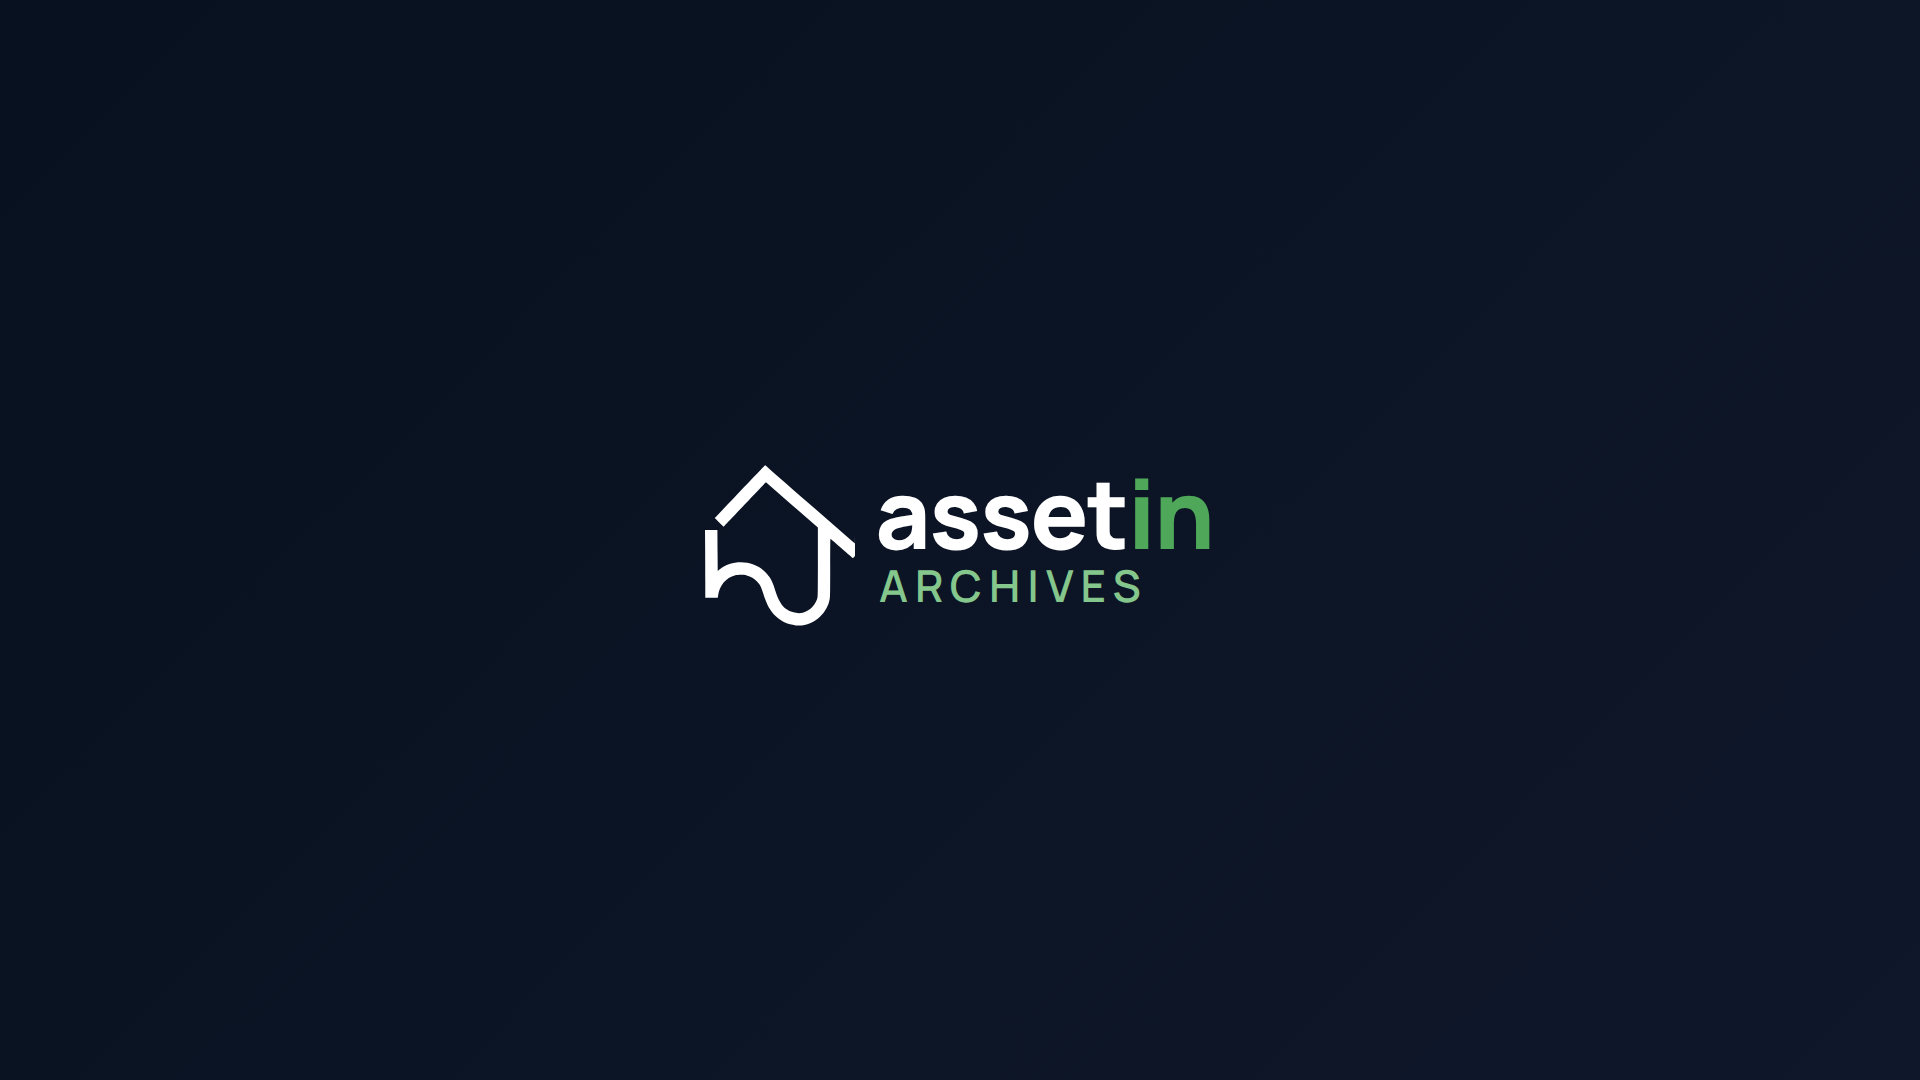
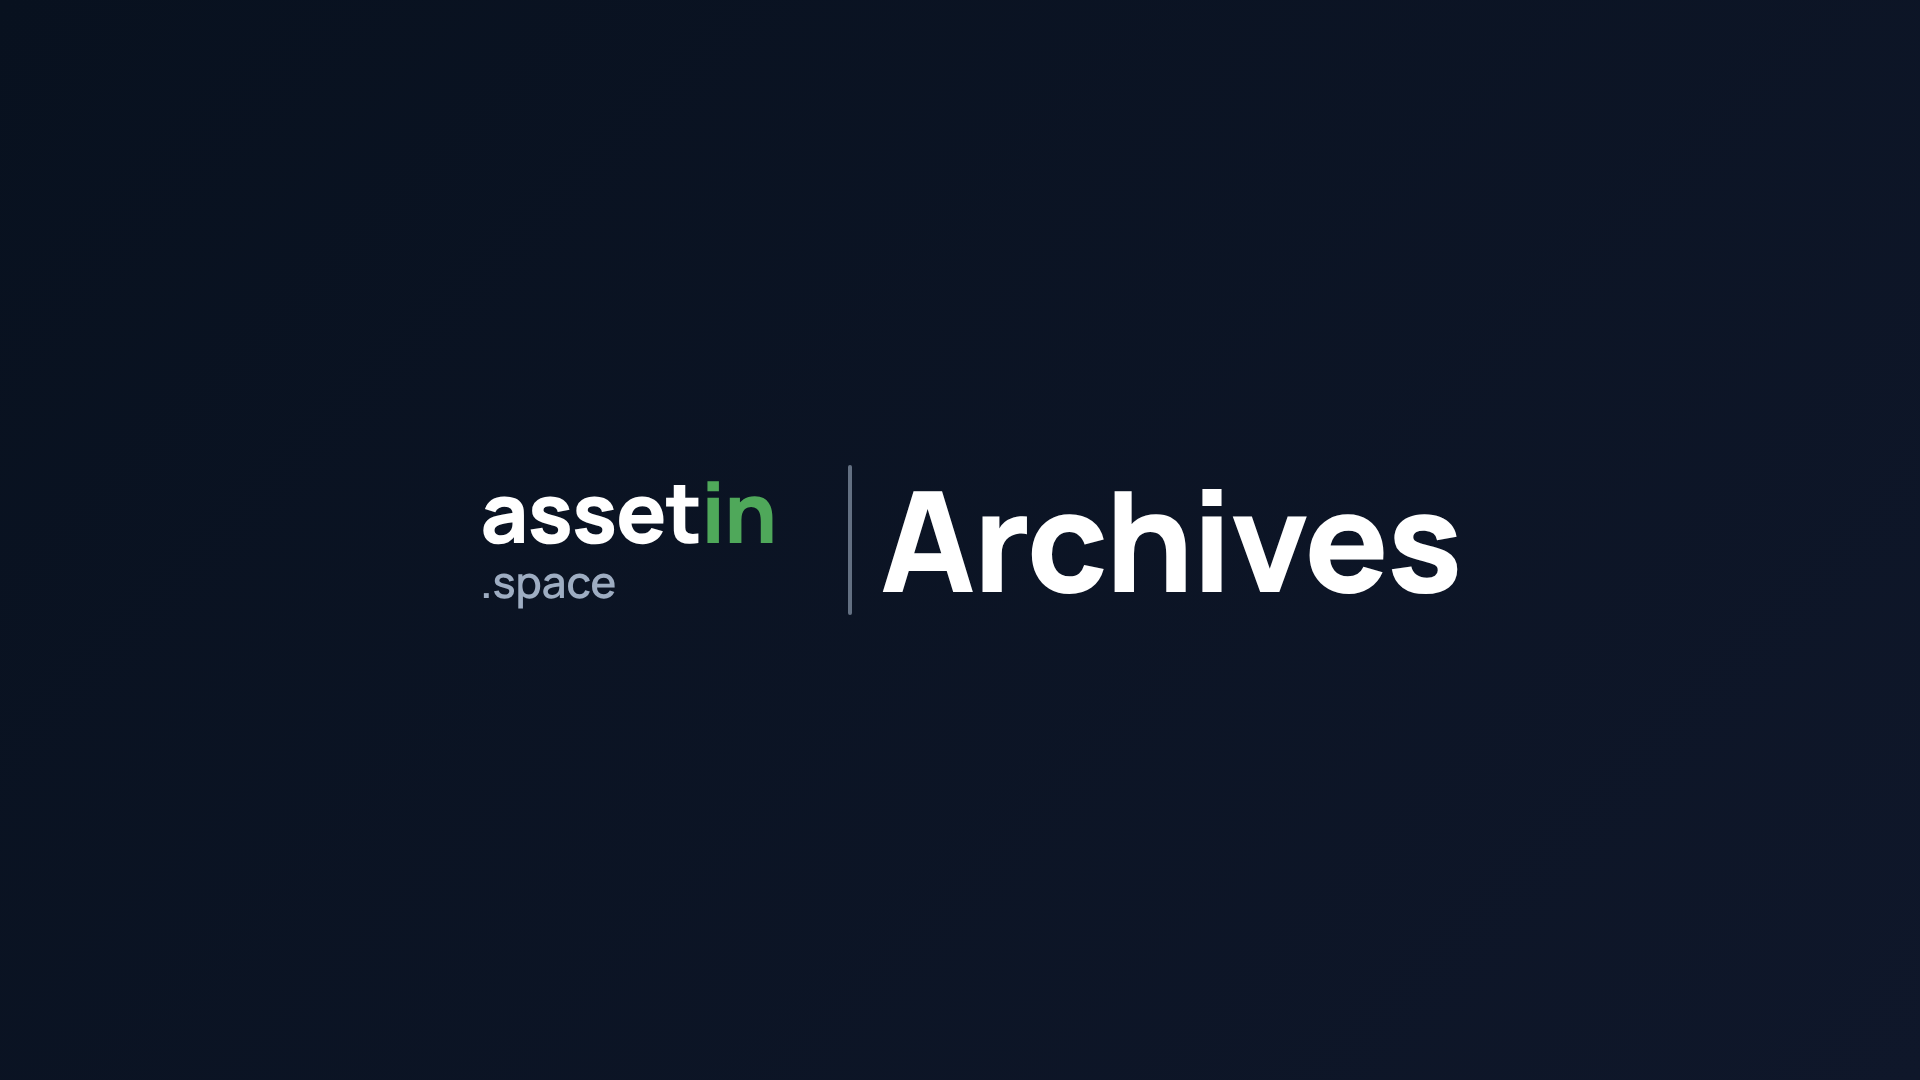
C1 Intro: lockup podľa assetin-design-kitu (assetin / .space | Archives), nový komponent Brand
Claude-Session: https://claude.ai/code/session_0174g5XfE49UzAEjnWwaQFuK

Changed region(s): [[0.25, 0.4278, 0.7812, 0.5806]]

diff --git a/video/src/scenes/C1_Intro.tsx b/video/src/scenes/C1_Intro.tsx
@@ -1,52 +1,58 @@
 import React from 'react';
 import { useCurrentFrame } from 'remotion';
-import { LogoMark, Scene } from '../components/Scene';
+import { Scene } from '../components/Scene';
+import { BrandMod, BrandSep, BrandStack, LOCKUP, LOCKUP_W } from '../components/Brand';
 import { settle, tween } from '../lib/anim';
-import { BRAND, FONT } from '../theme';
 
 /**
- * C1 - Intro. Domcek (LogoMark) v strede; spoza neho vyjde "assetin",
- * pod nim "Archives"; hold; texty sa zasunu spat; kamera prejde cez domcek
- * (najazd do vnutra), obraz sa vyplni navy = prvy frame C2. 5 s.
+ * C1 - Intro. Lockup podla assetin-design-kitu: stohovany logotyp
+ * (assetin / .space), zvisly oddelovac, modul "Archives". Lockup je pocas
+ * drzania centrovany; na konci sa Archives zasunie za oddelovac, oddelovac
+ * sa stiahne, logotyp sa priblizi a vybledne do navy = prvy frame C2. 5 s.
  *
- * ms: 300 domcek · 900-1500 wordmark vychadza · 1300-1900 Archives ·
- * 3000-3500 zasunutie · 3600-4700 najazd cez domcek.
+ * ms: 300 assetin · 700 .space · 1100-1500 oddelovac · 1300-1900 Archives
+ * vychadza · 3200-3700 Archives sa zasuva (skupina ide do stredu) ·
+ * 3700-4000 oddelovac sa stiahne · 4000-4700 priblizenie + navy.
  */
 export const C1_Intro: React.FC = () => {
   const frame = useCurrentFrame();
   const tw = (s: number, d: number) => tween(frame, s, d);
-  const logo = settle(frame, 300);
-  const out = tw(900, 600) * (1 - tw(3000, 500));
-  const sub = tw(1300, 600) * (1 - tw(2900, 450));
-  const zoom = tw(3600, 1100);
-  const scale = 1 + zoom * 40;
-  const MARK = 150;
-  // lockup (domcek + text) je pocas drzania centrovany; pri zasunuti textu sa skupina
-  // posunie tak, ze domcek skonci presne v strede - kamera potom letí do neho.
-  const TEXT_W = 500; // sirka clip panelu
-  const LOCK_W = 370; // skutocna sirka textu (assetin 96 px + padding)
-  const back = tw(3000, 500);
-  const shift = (-(LOCK_W - 10) / 2) * (1 - back);
+  const stackIn = settle(frame, 300);
+  const domain = settle(frame, 700);
+  const sep = tw(1100, 400) * (1 - tw(3700, 300));
+  const mod = tw(1300, 600) * (1 - tw(3200, 500));
+  const back = tw(3200, 500);
+  const zoom = tw(4000, 700);
+  const navy = tw(4400, 300);
+
+  // pocas drzania je centrovany cely lockup; pri zasunuti Archives sa skupina
+  // (stack + sep) posunie tak, aby bol logotyp v strede
+  const stackLeftHold = 960 - LOCKUP_W / 2;
+  const stackLeftEnd = 960 - LOCKUP.stackW / 2;
+  const stackLeft = stackLeftHold + (stackLeftEnd - stackLeftHold) * back;
+  const sepLeft = stackLeft + LOCKUP.stackW + LOCKUP.gap;
+  const modLeft = sepLeft + LOCKUP.sepW + LOCKUP.gap;
+  const top = 540 - LOCKUP.sepH / 2;
+  const scale = 1 + zoom * 0.35;
+
   return (
     <Scene mode="dark">
-      <div style={{ position: 'absolute', left: 960 - MARK / 2 + shift, top: 540 - MARK / 2, width: MARK, height: MARK, transform: `scale(${scale})`, transformOrigin: '45% 62%' }}>
-        {/* text vychadza spoza domceka doprava a zasuva sa spat "do domceka" */}
-        <div style={{ position: 'absolute', left: MARK - 10, top: -10, width: TEXT_W, height: 170, overflow: 'hidden' }}>
-          <div style={{ position: 'absolute', left: 0, top: 10, transform: `translateX(${(out - 1) * TEXT_W}px)`, opacity: Math.min(1, out * 2), fontFamily: FONT.display, fontWeight: 800, fontSize: 96, lineHeight: 1, color: '#fff', letterSpacing: '-0.02em', paddingLeft: 30, whiteSpace: 'nowrap' }}>
-            asset<span style={{ color: BRAND[400] }}>in</span>
-          </div>
-          <div style={{ position: 'absolute', left: 0, top: 108, transform: `translateX(${(sub - 1) * TEXT_W}px)`, opacity: Math.min(1, sub * 2), fontFamily: FONT.display, fontWeight: 600, fontSize: 44, lineHeight: 1, color: BRAND[300], letterSpacing: '0.16em', textTransform: 'uppercase', paddingLeft: 34, whiteSpace: 'nowrap' }}>
-            Archives
-          </div>
+      <div style={{ position: 'absolute', inset: 0, transform: `scale(${scale})`, transformOrigin: '50% 50%', opacity: 1 - zoom * 0.9, filter: `blur(${zoom * 6}px)` }}>
+        {/* stohovany logotyp */}
+        <div style={{ position: 'absolute', left: stackLeft, top: top + 4, opacity: stackIn, transform: `translateY(${(1 - stackIn) * 24}px)` }}>
+          <BrandStack domain={domain} />
         </div>
-        {/* domcek: pri najazde sa jeho vnutro vyplni cely frame a stmavne do navy */}
-        <div style={{ position: 'absolute', inset: 0, opacity: logo, transform: `scale(${0.85 + 0.15 * logo})` }}>
-          <LogoMark size={MARK} color="#fff" />
-          <div style={{ position: 'absolute', left: '18%', top: '44%', width: '52%', height: '38%', background: `rgba(8,17,31,${zoom})` }} />
+        {/* oddelovac */}
+        <div style={{ position: 'absolute', left: sepLeft, top }}>
+          <BrandSep t={sep} />
+        </div>
+        {/* modul Archives: vychadza spoza oddelovaca doprava (clip) */}
+        <div style={{ position: 'absolute', left: modLeft, top: top + 2, width: LOCKUP.modW + 40, height: LOCKUP.sepH, overflow: 'hidden' }}>
+          <BrandMod style={{ position: 'absolute', left: 0, top: 2, transform: `translateX(${(mod - 1) * (LOCKUP.modW + 40)}px)`, opacity: Math.min(1, mod * 2) }} />
         </div>
       </div>
       {/* prechod do navy na konci (prvy frame C2 je navy) */}
-      <div style={{ position: 'absolute', inset: 0, background: '#08111F', opacity: tw(4400, 300) }} />
+      <div style={{ position: 'absolute', inset: 0, background: '#08111F', opacity: navy }} />
     </Scene>
   );
 };

diff --git a/video/src/components/Brand.tsx b/video/src/components/Brand.tsx
@@ -1,0 +1,39 @@
+import React from 'react';
+import { BRAND, FONT, NAVY } from '../theme';
+
+/**
+ * Lockup podla assetin-design-kitu (.brand-lockup.rule.on-navy):
+ *   .brand-logo.stacked  = "assetin" (asset biele, in zelene) + ".space" pod tym (sive)
+ *   .sep                 = zvisly oddelovac
+ *   .mod                 = modul "Archives"
+ * Rozmery su pre 1080p; `k` skaluje cely lockup.
+ */
+export const LOCKUP = {
+  stackW: 340, // sirka "assetin" pri 84 px
+  gap: 28,
+  sepW: 4,
+  sepH: 150,
+  modW: 560, // sirka "Archives" pri 140 px
+};
+export const LOCKUP_W = LOCKUP.stackW + LOCKUP.gap + LOCKUP.sepW + LOCKUP.gap + LOCKUP.modW;
+
+export const BrandStack: React.FC<{ domain?: number; style?: React.CSSProperties }> = ({ domain = 1, style }) => (
+  <div style={{ display: 'flex', flexDirection: 'column', alignItems: 'flex-start', width: LOCKUP.stackW, ...style }}>
+    <div style={{ fontFamily: FONT.display, fontWeight: 800, fontSize: 84, lineHeight: 1, color: '#fff', letterSpacing: '-0.02em', whiteSpace: 'nowrap' }}>
+      asset<span style={{ color: BRAND[400] }}>in</span>
+    </div>
+    <div style={{ fontFamily: FONT.display, fontWeight: 500, fontSize: 44, lineHeight: 1, color: NAVY[300], letterSpacing: '-0.01em', marginTop: 6, whiteSpace: 'nowrap', opacity: Math.min(1, domain * 1.5), transform: `translateY(${(1 - domain) * -18}px)` }}>
+      .space
+    </div>
+  </div>
+);
+
+export const BrandSep: React.FC<{ t?: number }> = ({ t = 1 }) => (
+  <div style={{ width: LOCKUP.sepW, height: LOCKUP.sepH, display: 'flex', alignItems: 'center' }}>
+    <div style={{ width: LOCKUP.sepW, height: LOCKUP.sepH * t, borderRadius: 2, background: NAVY[300], opacity: 0.6 }} />
+  </div>
+);
+
+export const BrandMod: React.FC<{ text?: string; style?: React.CSSProperties }> = ({ text = 'Archives', style }) => (
+  <div style={{ fontFamily: FONT.display, fontWeight: 800, fontSize: 140, lineHeight: 1, color: '#fff', letterSpacing: '-0.02em', whiteSpace: 'nowrap', ...style }}>{text}</div>
+);

diff --git a/video/STORYBOARD.md b/video/STORYBOARD.md
@@ -1,4 +1,4 @@
-# Storyboard – Assetin Archives (kolo 10)
+# Storyboard – Assetin Archives (kolo 11)
 
 Stav: ☐ still na schválenie · ☑ still schválený · ▶ animácia hotová · 🎞 finálne MP4
 
@@ -11,7 +11,7 @@ strihový bod pre footage; náhľad Full má tvrdé strihy. Titulky v obraze sú
 
 | ID | Klip | Pozadie | Dej | Text v obraze | Dĺžka | Stav |
 |---|---|---|---|---|---|---|
-| C1-Intro | Intro | navy | Lockup (domček + „assetin“/„Archives“) v strede; texty sa zasunú do domčeka a domček sa pritom presunie presne do stredu; kamera preletí dovnútra domčeka do navy | – | 5 s | ☐ ▶ |
+| C1-Intro | Intro | navy | Lockup podľa assetin-design-kitu: stohovaný logotyp „assetin“ / „.space“ vypláva, zvislý oddeľovač sa nakreslí, „Archives“ vyjde spoza neho; hold; „Archives“ sa zasunie späť, oddeľovač sa stiahne, logotyp sa priblíži a vybledne do navy | – | 5 s | ☐ ▶ |
 | C2-Kancelaria | Skriňa pri stole | navy | Zelený panáčik príde ku skrini (stolička pred stolom), otvorí krídlo (otáča sa okolo pántu), vnútri šanóny so štítkami, rolky, listy; hľadá („?“ nad hlavou sa jemne vznášajú), vyhadzuje veci – šanón so štítkom, rolka a papiere vyletia oblúkom a dopadnú pred skriňou | 3 s „Dokumentáciu máte. Nikto ju nevie nájsť.“ | 8 s | ☐ ▶ |
 | C3-Sklad | Sklad → regál | navy | Zelená postavička klučkuje uličkou (cesta pod objektmi) a zastaví pred stredným regálom, dva „?“; kamera nájde na jeho hornú policu s dvoma krabicami (regál bez vrchnej dosky, vidno do krabíc), sklad vybledne; prvá krabica: veko sa odklopí, vidno dno a zložky vnútri, zložky sa postupne vyberú a vrátia (pri prvej zložke vyletí bublinka „?“ a zanikne), veko dole; to isté druhá; nič sa nenašlo, väčší „?“ | 4 s „V sklade to nie je lepšie.“ · 11,5 s „Je to niekde tam.“ | 14 s | ☐ ▶ |
 | C4-Cena | 2× | navy | Začína rovnakým regálom ako koniec C3; regál sa odsunie doľava, vedľa neho veľký „?“, vedľa hodiny rovnakej veľkosti s točiacou sa ručičkou (hľadanie trvá), šípka k výkresu s pečiatkou (rýchlejšie spraviť nanovo); veľké cenovky pod regálom a výkresom; „2×“ dole v strede | 5,8 s „Zaplatené dvakrát za tú istú dokumentáciu.“ | 9 s | ☐ ▶ |
@@ -45,7 +45,7 @@ S04-Pokusy (Excel a skener), S10-Nasadenie (U nás / U vás) vo Folder „Option
 - kolo 1: „vyzerá ako prezentácia, priveľa textu, nie je miesto na footage“ → kolo 2.
 - kolo 2: „mierka ikon nesedí, chýba kancelária, texty sa prekrývajú s ikonami, simulácia UI je zbytočná (príde footage), zelené QR, presahy medzi scénami“ → kolo 3 (tento stav).
 - kolo 3 + oprava QR/kancelárie: schválené → Fáza 2 (finálne MP4).
-- kolo 4 až 10 (pripomienky z review stránky, viď FEEDBACK.md): zapracované; nové MP4 na review stránke.
+- kolo 4 až 11 (pripomienky z review stránky, viď FEEDBACK.md): zapracované; nové MP4 na review stránke.
 
 ## Review stránka
 

diff --git a/video/FEEDBACK.md b/video/FEEDBACK.md
@@ -67,3 +67,9 @@
 | C4 Cena | Nevycentrované; popisky dole malé; 2× viac v strede a dole. | Kompozícia posunutá na stred; cenovky väčšie (36 px) pod regálom a pod výkresom; 2× dole v strede medzi nimi. |
 | C5 Terén | Najprv hárok s QR, z neho sa odlepia kódy na krabicu, po otvorení na každú zložku. | Nová os: zatvorená krabica → hárok → nálepka letí z hárku na krabicu → veko a zložky → tri nálepky letia na zložky (bunky na hárku sa vyprázdnia) → mobil, blesk, KR_01 → nájazd. |
 | C7 Hierarchia | Na konci zvýrazniť krabicu, kde je hľadaný dokument (mobil vľavo hľadá). | Mobil ukáže hľadanie a výsledok KR_01; krabica KR_01 dostane zelený obrys a značku, ostatné stmavnú. |
+
+## Kolo 11 (21. 9. 2026)
+
+| Klip | Pripomienka (skrátene) | Riešenie |
+|---|---|---|
+| C1 Intro | Logo nahradiť lockupom z assetin-design-kitu (`.brand-lockup.rule.on-navy`: stohovaný `assetin` / `.space`, oddeľovač, modul `Archives`) podľa screenshotu. | Nový komponent `components/Brand.tsx` (BrandStack, BrandSep, BrandMod) a nové intro: logotyp vypláva, `.space` sa vysunie, oddeľovač sa nakreslí, `Archives` vyjde spoza neho; na konci sa zasunie späť, oddeľovač sa stiahne, logotyp sa priblíži a vybledne do navy. Domček v intre už nie je (C9 Outro ho zatiaľ má). |
